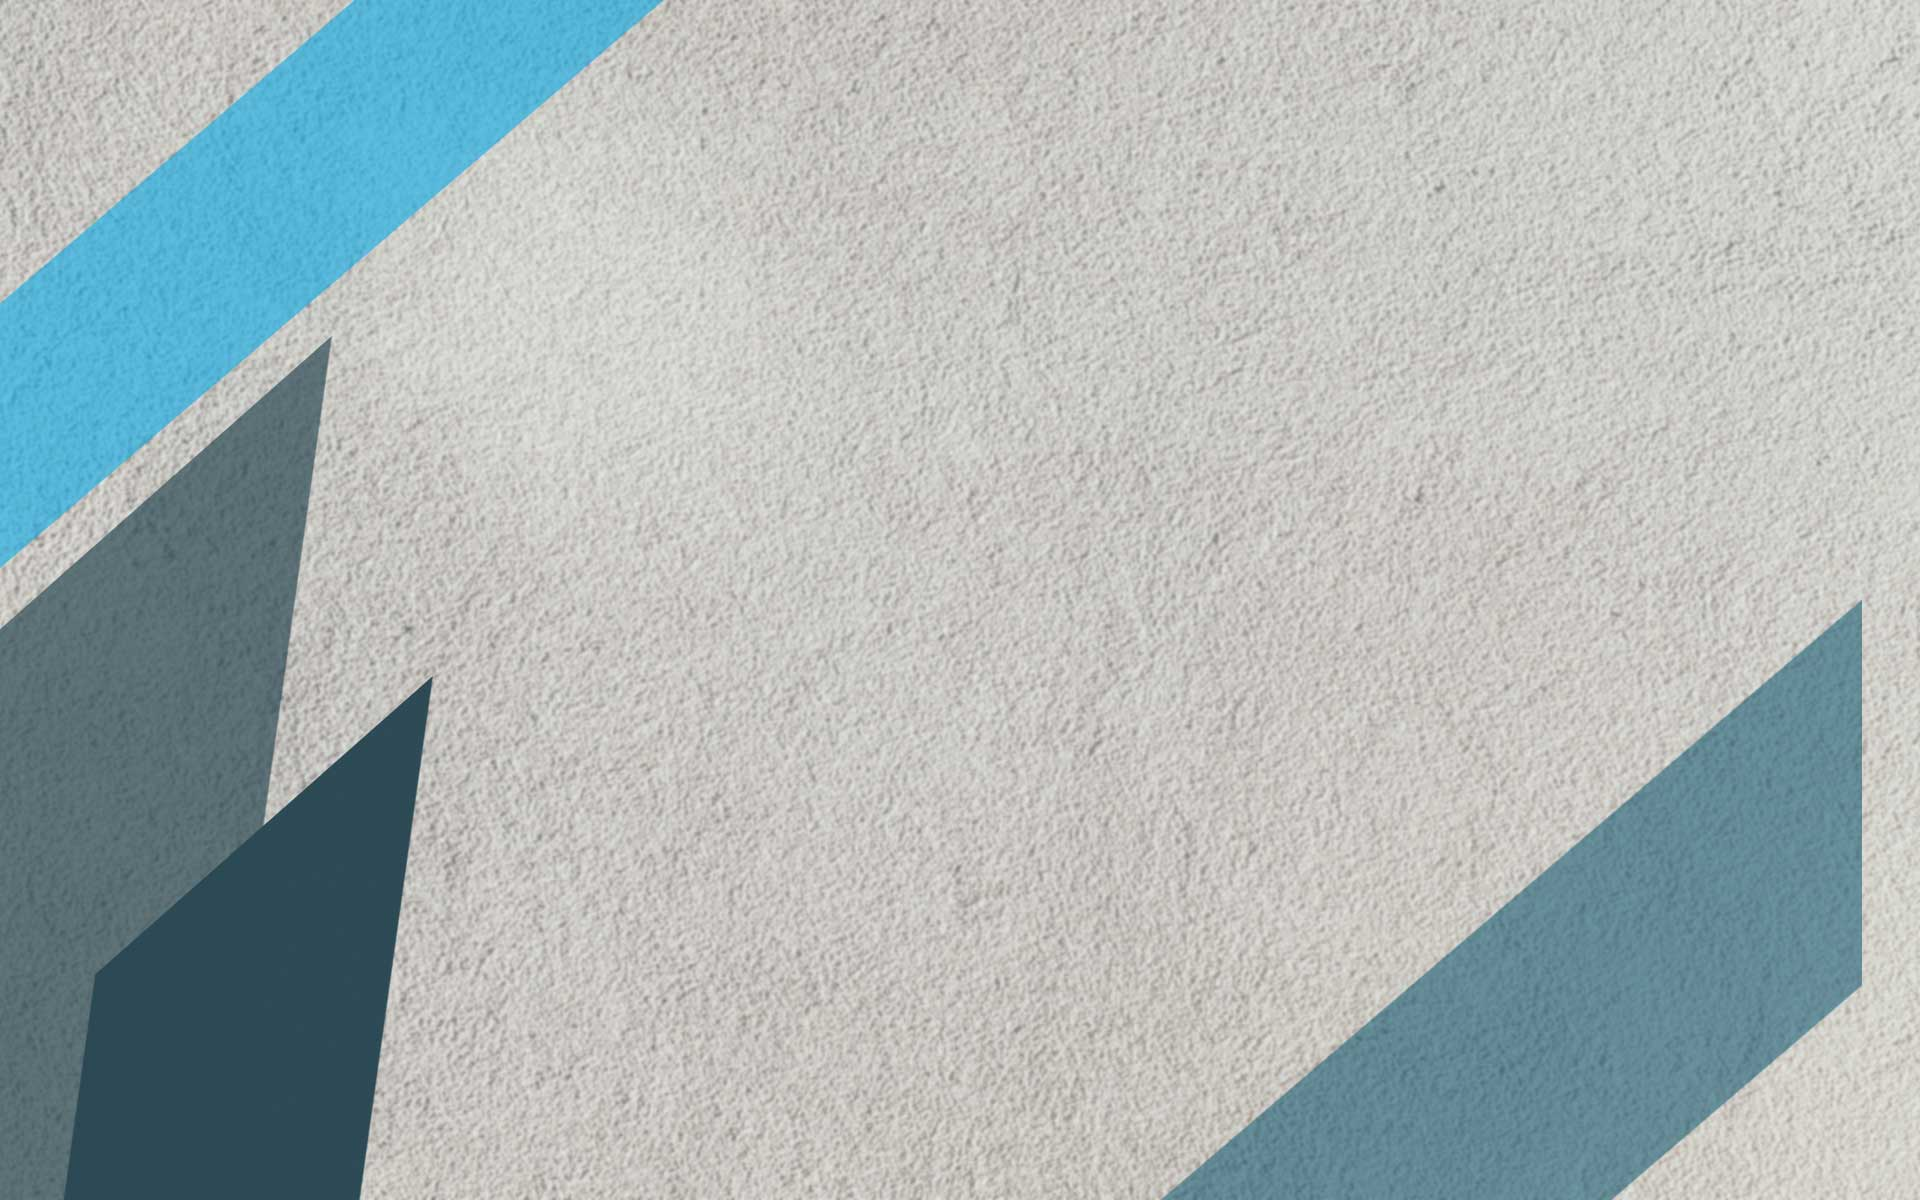
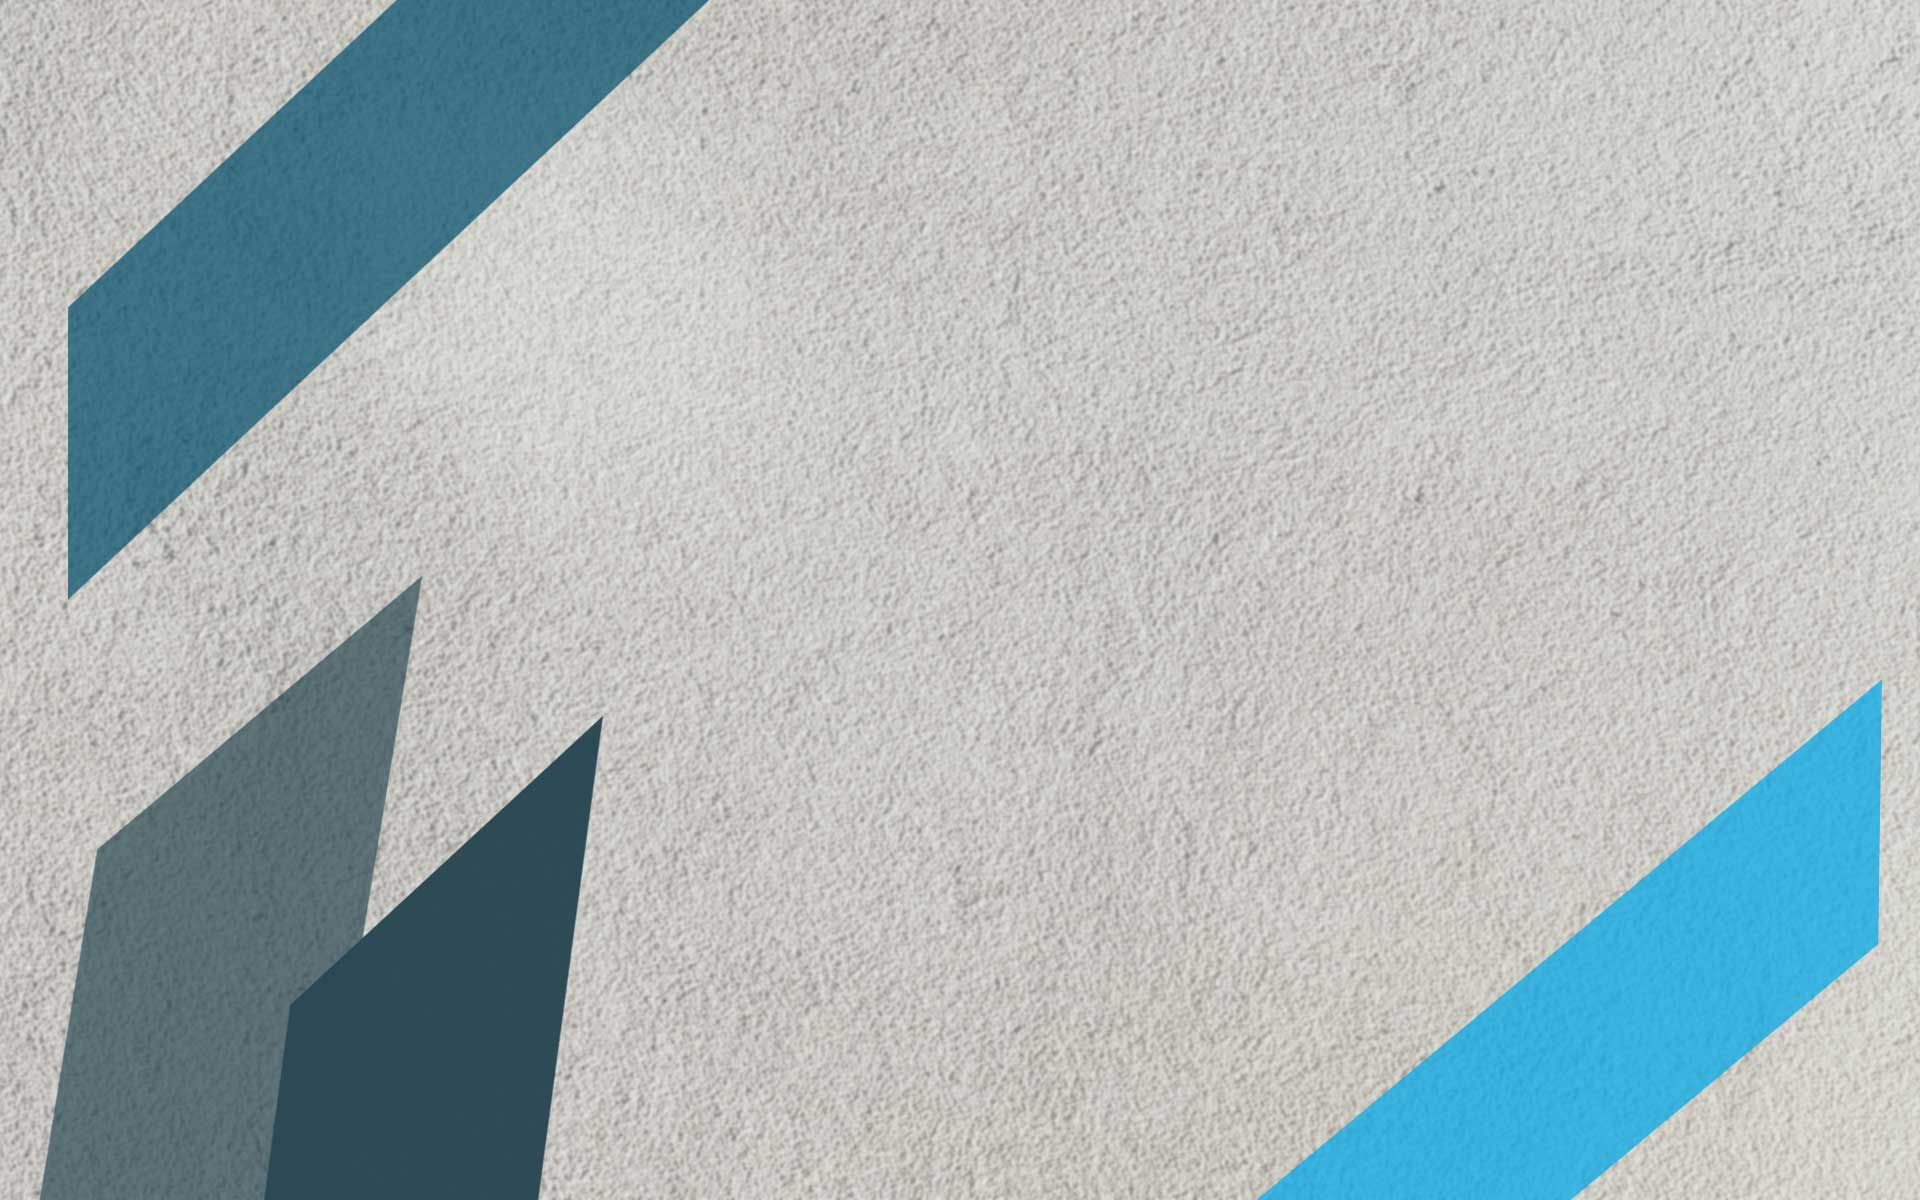
new header image

Changed region(s): [[0.0, 0.0, 0.375, 1.0], [0.5938, 0.4933, 1.0, 1.0]]

diff --git a/wp-content/themes/simpleportfoliotheme/style.css b/wp-content/themes/simpleportfoliotheme/style.css
@@ -383,7 +383,7 @@ Nicolas Gallagher and Jonathan Neal https://necolas.github.io/normalize.css/
     
     #header {
         position: relative;
-        background: url("/wp-content/themes/simpleportfoliotheme/assets/img/hero.png");
+        background: url("/wp-content/themes/simpleportfoliotheme/assets/img/hero-image-large.jpg");
         min-height: 100vh;
         background-size: cover;
         background-attachment: fixed;
@@ -392,7 +392,7 @@ Nicolas Gallagher and Jonathan Neal https://necolas.github.io/normalize.css/
     
     #header .primary-overlay {
         background-image: linear-gradient(to bottom right, #00171f, #00749b);
-        opacity: 0.9;
+        opacity: 0.8;
         position: absolute;
         top: 0;
         left: 0;
